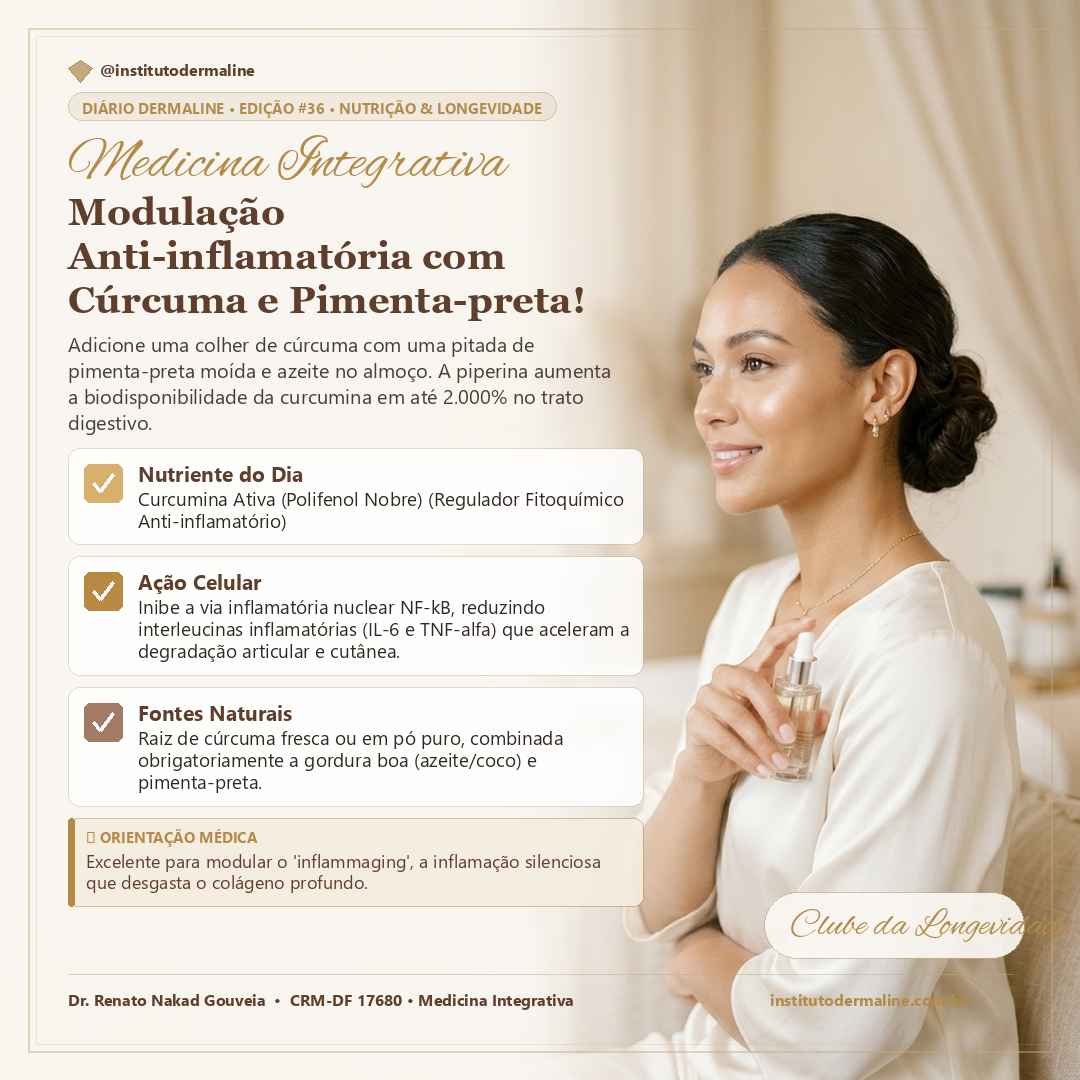
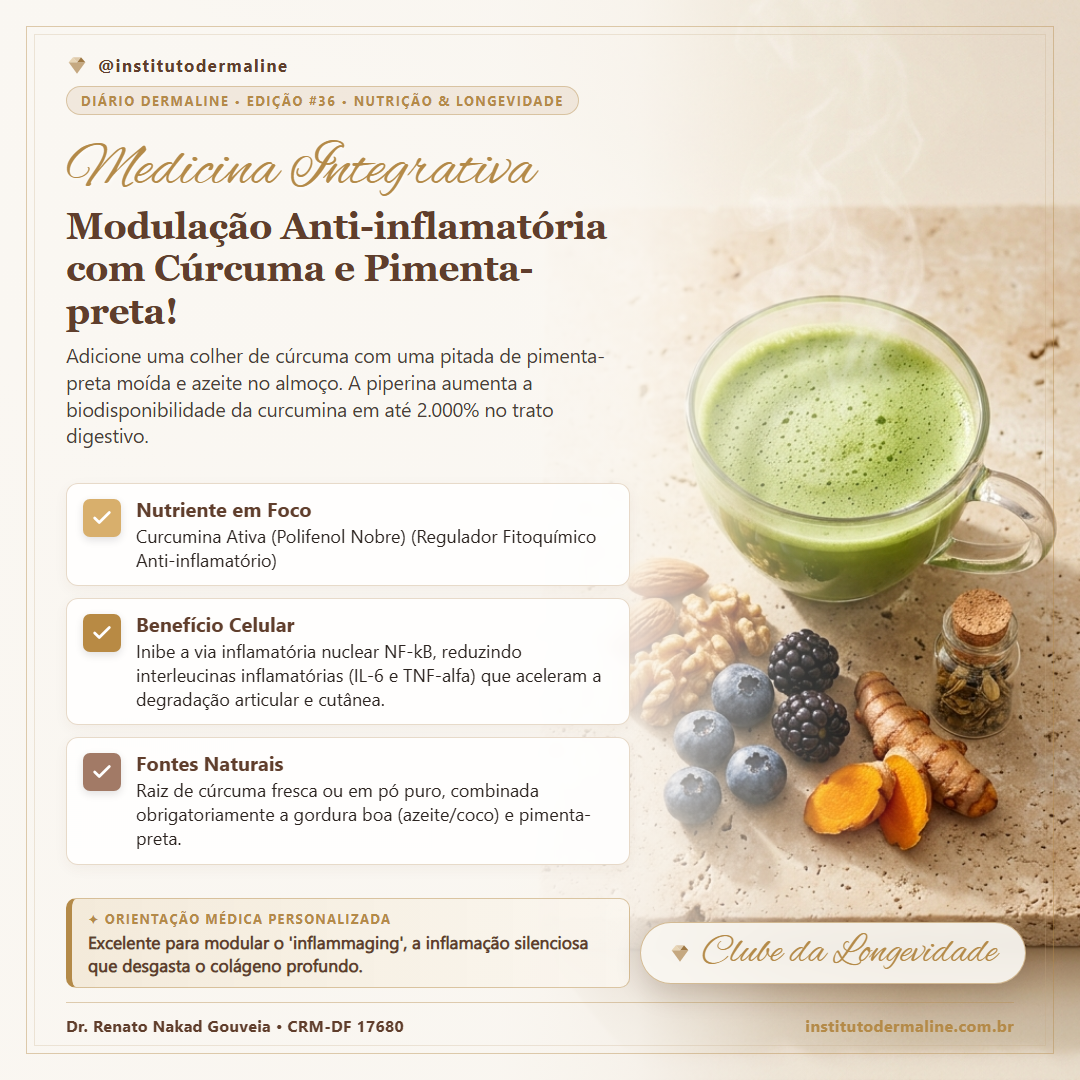
Fix: Renderizacao HD via Chrome Headless e templates exclusivos por pilar (Edicao #36)

diff --git a/scripts/renderizar_cards_local.js b/scripts/renderizar_cards_local.js
@@ -1,6 +1,6 @@
 /**
- * Renderizador Local de Alta Definição (1080x1080 PNG) para os 3 Posts Diários
- * Utiliza o design oficial de painel_preview_card.html com Google Chrome / Edge Headless.
+ * Renderizador de Alta Definição (1080x1080 PNG) para os 3 Posts Diários
+ * Funciona tanto no Windows (Chrome/Edge) quanto no Linux/GitHub Actions (google-chrome/chromium).
  */
 
 const http = require("http");
@@ -12,6 +12,7 @@ const { promisify } = require("util");
 const execFileAsync = promisify(execFile);
 const root = path.join(__dirname, "..");
 const cardsDir = path.join(root, "assets", "images", "cards");
+const conteudoPath = path.join(root, "conteudo_diario.json");
 fs.mkdirSync(cardsDir, { recursive: true });
 
 const mime = {
@@ -24,10 +25,38 @@ const mime = {
   ".ttf": "font/ttf",
 };
 
+function calcularDiaAtual() {
+  try {
+    const raw = fs.readFileSync(conteudoPath, "utf-8");
+    const dados = JSON.parse(raw);
+    const config = dados.config || {};
+    const dicas = dados.dicas_diarias || [];
+    const totalDias = config.total_dias || dicas.length || 64;
+    const dataPubStr = config.data_publicacao_site || "";
+    if (dataPubStr) {
+      const [ano, mes, dia] = dataPubStr.split("-").map(Number);
+      const dataPub = Date.UTC(ano, mes - 1, dia);
+      const hoje = new Date();
+      const hojeUTC = Date.UTC(hoje.getUTCFullYear(), hoje.getUTCMonth(), hoje.getUTCDate());
+      const diasPassados = Math.floor((hojeUTC - dataPub) / (1000 * 60 * 60 * 24));
+      if (diasPassados >= 0) {
+        return (diasPassados % totalDias) + 1;
+      }
+    }
+  } catch (e) {
+    console.error("Erro ao calcular dia atual:", e.message);
+  }
+  return 1;
+}
+
 function localizarNavegador() {
   const candidatos = [
     "C:\\Program Files\\Google\\Chrome\\Application\\chrome.exe",
     "C:\\Program Files (x86)\\Microsoft\\Edge\\Application\\msedge.exe",
+    "/usr/bin/google-chrome",
+    "/usr/bin/google-chrome-stable",
+    "/usr/bin/chromium-browser",
+    "/usr/bin/chromium",
   ];
   return candidatos.find((c) => fs.existsSync(c));
 }
@@ -55,14 +84,31 @@ server.listen(0, "127.0.0.1", async () => {
       process.exit(1);
     }
 
-    const pilares = [
+    const todosPilares = [
       { key: "nutricao", code: "1_nutricao" },
       { key: "dermatologia", code: "2_dermatologia" },
       { key: "beleza", code: "3_beleza" },
     ];
 
-    const diasArg = process.argv.slice(2).map(Number).filter(Boolean);
-    const diasParaGerar = diasArg.length > 0 ? diasArg : [34];
+    // Verifica se foi passado --pilar <nome>
+    let filtroPilar = "todos";
+    const idxPilar = process.argv.indexOf("--pilar");
+    if (idxPilar !== -1 && process.argv[idxPilar + 1]) {
+      filtroPilar = process.argv[idxPilar + 1].toLowerCase();
+    }
+
+    const pilares =
+      filtroPilar === "todos"
+        ? todosPilares
+        : todosPilares.filter((p) => p.key === filtroPilar);
+
+    const diasArg = process.argv
+      .slice(2)
+      .filter((a, i, arr) => a !== "--pilar" && arr[i - 1] !== "--pilar")
+      .map(Number)
+      .filter(Boolean);
+
+    const diasParaGerar = diasArg.length > 0 ? diasArg : [calcularDiaAtual()];
 
     for (const dia of diasParaGerar) {
       const diaStr = String(dia).padStart(2, "0");
@@ -71,30 +117,27 @@ server.listen(0, "127.0.0.1", async () => {
         const url = `http://127.0.0.1:${port}/painel_preview_card.html?render=1&dia=${dia}&pilar=${p.key}`;
         await execFileAsync(browser, [
           "--headless=new",
+          "--no-sandbox",
+          "--disable-setuid-sandbox",
           "--disable-gpu",
           "--hide-scrollbars",
           "--window-size=1080,1080",
           "--force-device-scale-factor=1",
-          "--virtual-time-budget=1500",
+          "--virtual-time-budget=1800",
           `--screenshot=${outPath}`,
           url,
         ]);
         if (dia === diasParaGerar[diasParaGerar.length - 1]) {
           fs.copyFileSync(outPath, path.join(cardsDir, `card_hoje_${p.code}.png`));
+          fs.copyFileSync(outPath, path.join(cardsDir, "card_hoje.png"));
         }
-        console.log(`[✓] Card renderizado (1080x1080): ${path.basename(outPath)}`);
+        console.log(`[✓] Card HD renderizado (1080x1080): ${path.basename(outPath)}`);
       }
     }
-
-    fs.copyFileSync(
-      path.join(cardsDir, "card_hoje_1_nutricao.png"),
-      path.join(cardsDir, "card_hoje.png")
-    );
-    console.log("[✓] Todos os 3 posts diários foram atualizados com sucesso!");
   } catch (err) {
     console.error("Erro na renderização:", err);
+    process.exitCode = 1;
   } finally {
     server.close();
-    process.exit(0);
   }
 });

diff --git a/painel_preview_card.html b/painel_preview_card.html
@@ -650,13 +650,11 @@
       const listas = {
         nutricao: [
           'assets/images/templates/bg_nutricao_1.jpg',
-          'assets/images/templates/bg_nutricao_2.jpg',
-          'assets/images/templates/bg_editorial_3.jpg'
+          'assets/images/templates/bg_nutricao_2.jpg'
         ],
         dermatologia: [
           'assets/images/templates/bg_dermato_1.jpg',
-          'assets/images/templates/bg_dermato_2.jpg',
-          'assets/images/templates/bg_editorial_2.jpg'
+          'assets/images/templates/bg_dermato_2.jpg'
         ],
         beleza: [
           'assets/images/templates/bg_editorial_1.jpg',
